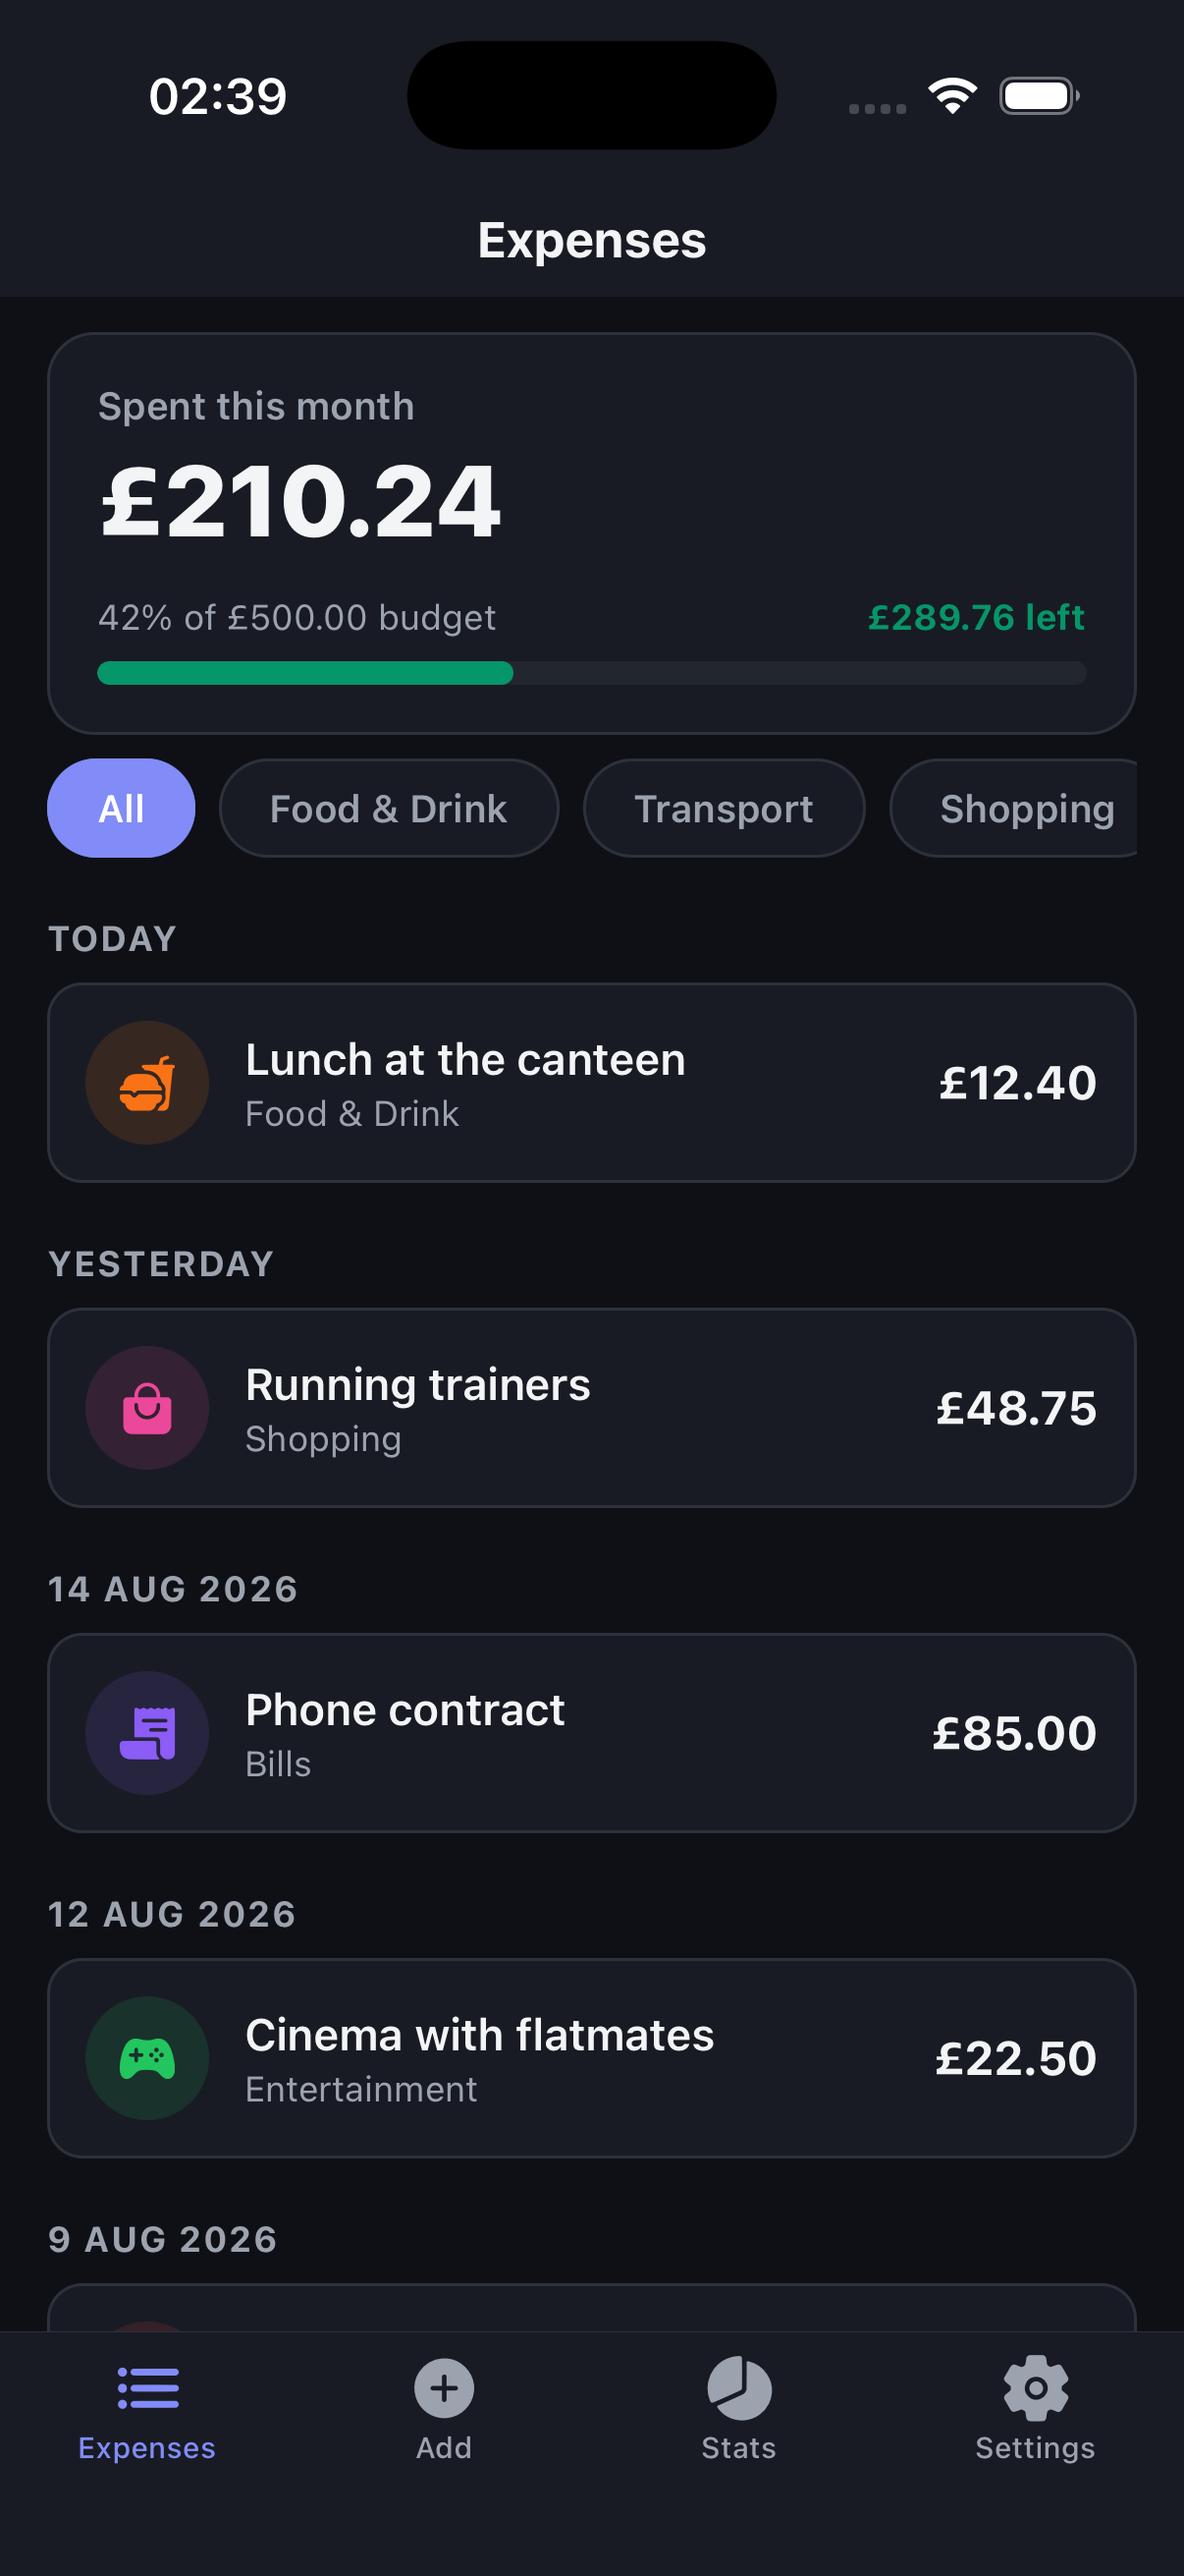
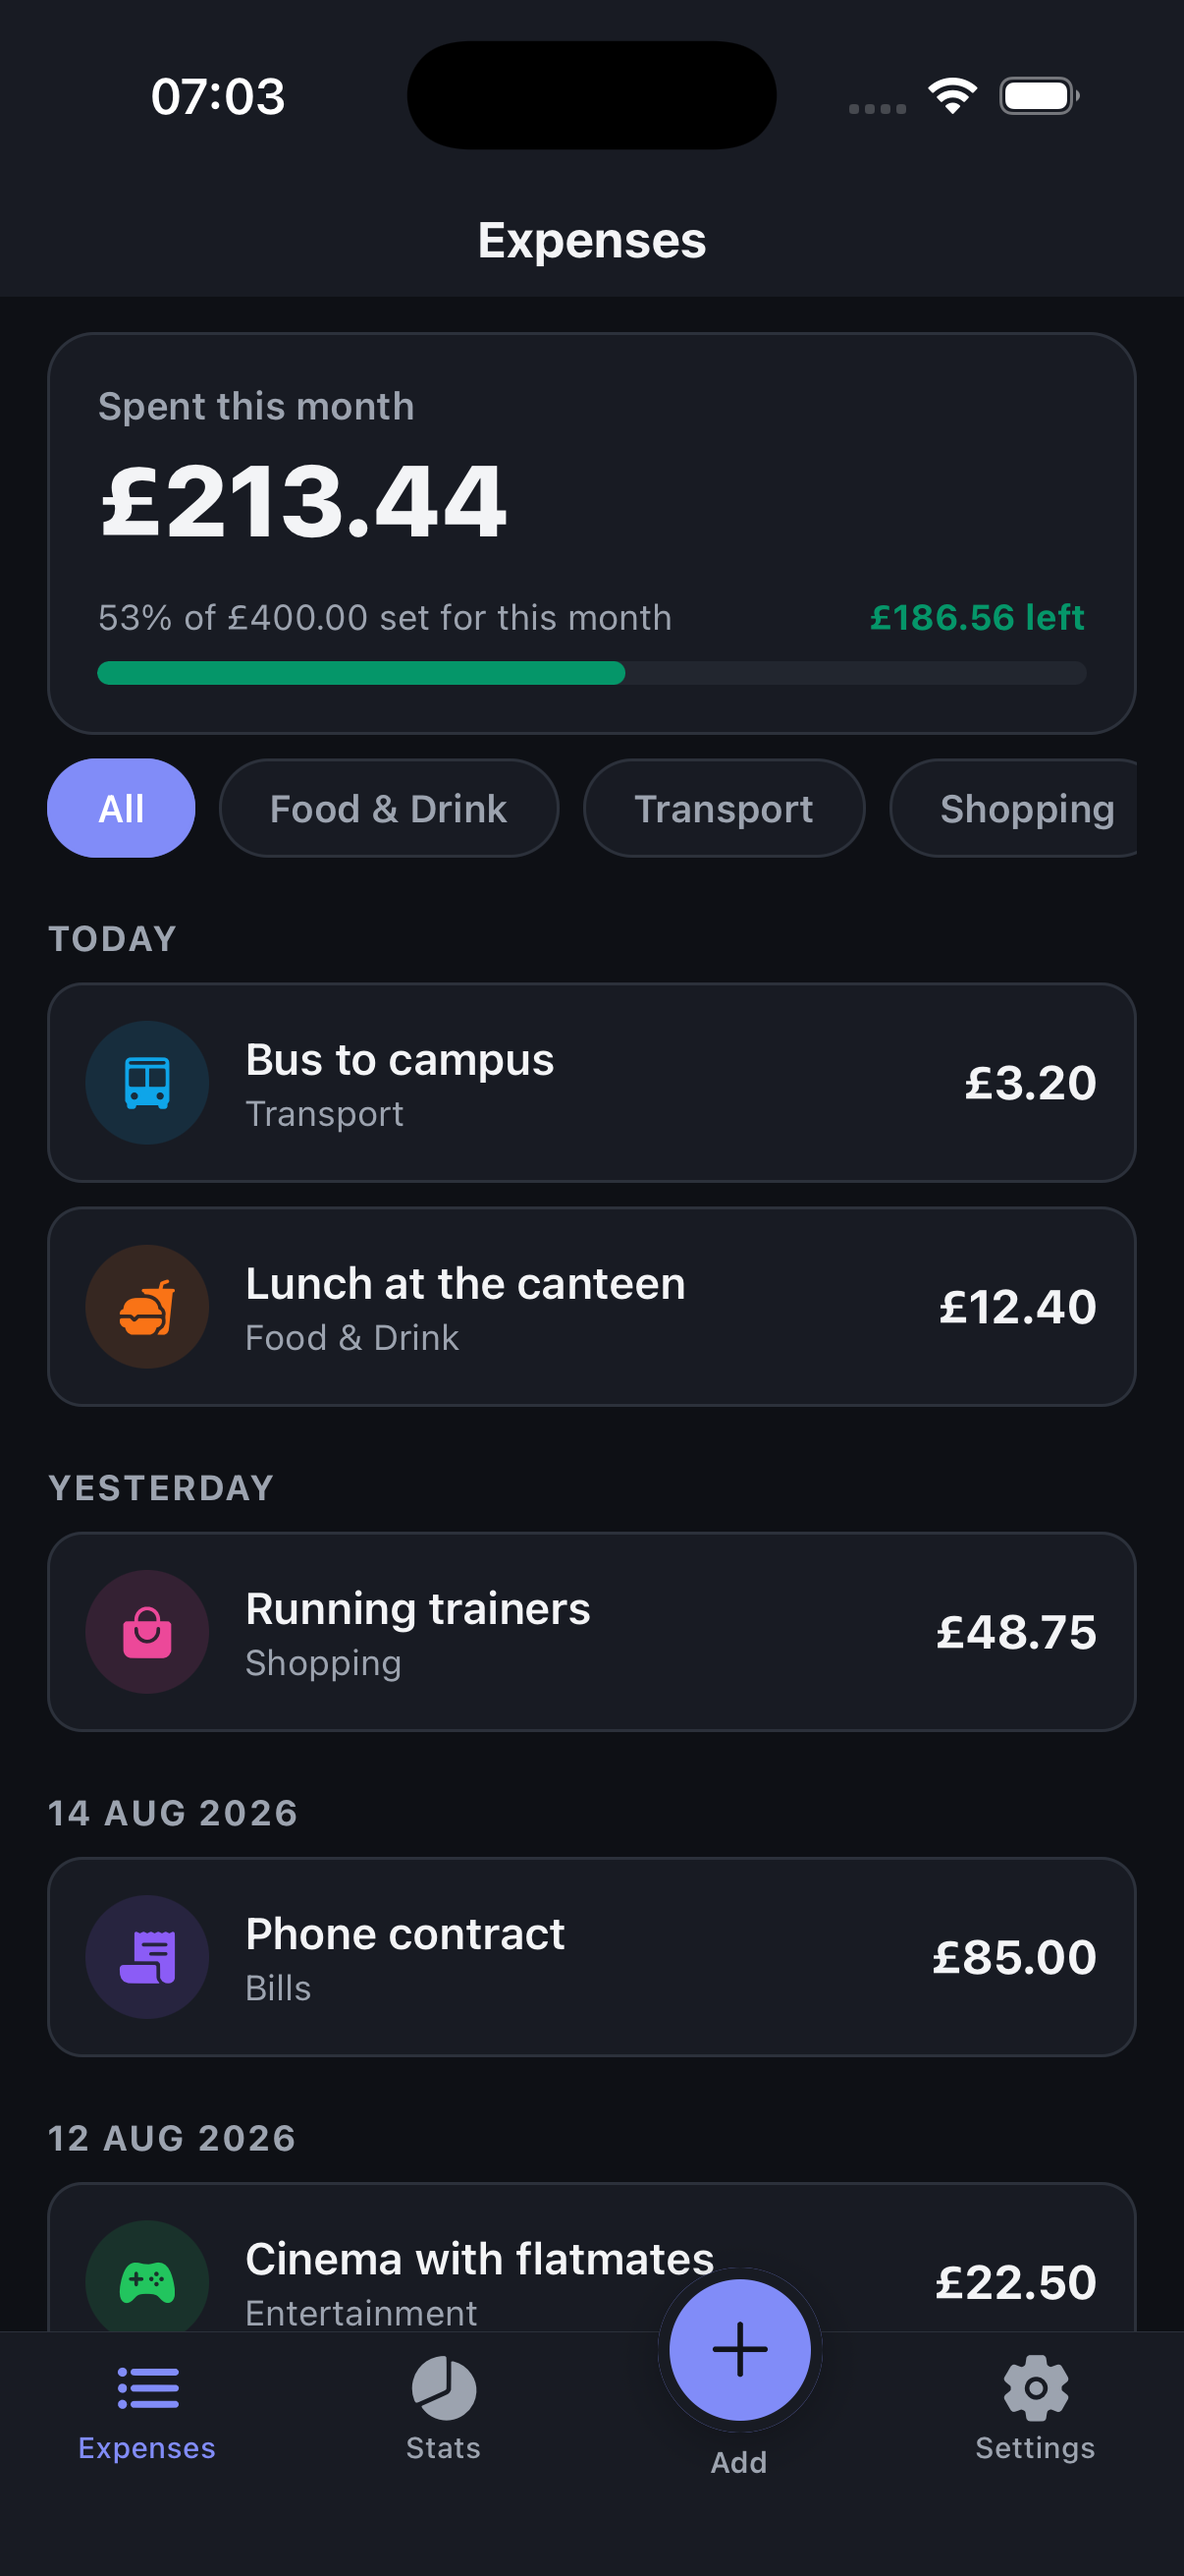
docs: updated the readme, screenshots and test report for the new features

diff --git a/README.md b/README.md
@@ -35,17 +35,19 @@ npm test
 
 | Feature | What it does |
 |---|---|
-| **Multi-screen navigation** | Four bottom tabs (Expenses, Add, Stats, Settings) built with Expo Router. A stack sits above the tabs, and the edit screen opens on top of them as a modal through the dynamic route `app/expense/[id].js`. |
-| **State management with the Context API** | Two React contexts hold all state. `ExpensesContext` holds the list and its create, update and delete actions, and uses `useReducer` with a pure reducer. `SettingsContext` holds the currency, the theme and the budget. |
+| **Multi-screen navigation** | Three bottom tabs (Expenses, Stats, Settings) built with Expo Router, plus a raised centre button. A stack sits above the tabs: the add form opens on it as a modal (`app/expense/new.js`) and the edit screen opens through the dynamic route `app/expense/[id].js`. |
+| **State management with the Context API** | Two React contexts hold all state. `ExpensesContext` holds the list and its create, update and delete actions, and uses `useReducer` with a pure reducer. `SettingsContext` holds the currency, the theme and the budgets. |
 | **Persistence with AsyncStorage** | The app reads the saved data once when it starts, and writes it back after every change. Your expenses and settings survive a force-quit and a restart of the phone. |
 | **Works offline** | There is no network call anywhere in the app. Spendly works the same in aeroplane mode. |
-| Add an expense | Enter an amount, pick one of seven categories, add an optional note, and pick a date. The form rejects an empty amount, a negative amount and an impossible date such as `2026-02-31`. |
+| Add an expense | The raised button in the tab bar opens the form as a modal. Enter an amount, pick one of seven categories, add an optional note, and pick a date. The form rejects an empty amount, a negative amount and an impossible date such as `2026-02-31`. |
 | Edit and delete | Tap any row to open it. Change it and save, or delete it after a confirmation alert. |
 | Expense list by day | The list groups expenses under "Today", "Yesterday" and full dates, newest first. |
 | Category filter | A chip bar filters the list to one category. An empty category shows its own message. |
 | Monthly total and budget bar | The header shows what you spent this month. The bar below it turns green, amber at 80% and red at 100% of your budget. |
-| Statistics | A month switcher, the total and the count for that month, a bar chart of the share of each category, and the largest single expense. |
-| Settings | Theme (System, Light or Dark), currency (GBP, USD or EUR), the monthly budget, and a destructive "Clear all expenses" action. |
+| Budget for a single month | Every month can hold its own budget. A month with no figure of its own uses the default from Settings, so a holiday month does not force you to change the default and change it back. |
+| Four ways to read a month | The Stats tab switches between Categories, Share, Daily and Trend. Categories and Share show where the money went, Daily shows when it went, and Trend compares the last six months. |
+| Expenses behind a category | Tap a category on the Stats tab to open it and see the expenses that make up the figure. Tap one of them to edit it. |
+| Settings | Theme (System, Light or Dark), currency (GBP, USD, EUR or MVR), the default monthly budget, and a destructive "Clear all expenses" action. |
 | Light and dark themes | Every colour comes from one theme file. The whole app, the headers and the tab bar change together. |
 | Accessibility | Buttons, chips, inputs and the budget bar carry accessibility roles, labels and states for screen readers. |
 
@@ -68,26 +70,38 @@ npm test
   </tr>
   <tr>
     <td align="center">
-      <img src="assets/screenshots/add.png" width="250" alt="The add expense form"><br>
+      <img src="assets/screenshots/add.png" width="250" alt="The add expense form as a modal"><br>
       <b>Add</b><br>
-      Amount, category grid, note and date, with "Today" and "Yesterday" shortcuts.
+      The raised button opens the form as a modal over the tabs.
     </td>
     <td align="center">
       <img src="assets/screenshots/edit.png" width="250" alt="The edit expense modal"><br>
       <b>Edit</b><br>
-      The same form opened as a modal from the list, with a delete action.
+      The same form opened from the list, with a delete action.
     </td>
   </tr>
   <tr>
     <td align="center">
-      <img src="assets/screenshots/stats.png" width="250" alt="The statistics screen"><br>
-      <b>Stats</b><br>
-      Month switcher, totals, the share of each category and the largest expense.
+      <img src="assets/screenshots/stats.png" width="250" alt="The statistics screen, category view"><br>
+      <b>Stats — Categories</b><br>
+      The budget for the month, and bars that open to show the expenses behind them.
+    </td>
+    <td align="center">
+      <img src="assets/screenshots/stats-share.png" width="250" alt="The statistics screen, donut chart"><br>
+      <b>Stats — Share</b><br>
+      A ring chart of the share each category takes of the month.
+    </td>
+  </tr>
+  <tr>
+    <td align="center">
+      <img src="assets/screenshots/stats-trend.png" width="250" alt="The statistics screen, trend line"><br>
+      <b>Stats — Trend</b><br>
+      Spending over the six months that end with the selected month.
     </td>
     <td align="center">
       <img src="assets/screenshots/settings.png" width="250" alt="The settings screen"><br>
       <b>Settings</b><br>
-      Theme, currency, monthly budget and the clear-all action.
+      Theme, currency, the default budget and the clear-all action.
     </td>
   </tr>
   <tr>
@@ -111,6 +125,7 @@ npm test
 | React Context + `useReducer` | State management for the expense list and the user settings. |
 | AsyncStorage 2.2.0 | Local storage on the phone. |
 | @expo/vector-icons (Ionicons) | All icons in the tab bar, the category grid and the list. |
+| react-native-svg 15.15.4 | The ring chart and the trend line. The daily bar chart uses plain Views and needs no library. |
 | Jest + jest-expo | The unit tests for the reducer and the helpers. |
 
 ---
@@ -119,20 +134,23 @@ npm test
 
 ```
 app/                          Routes (Expo Router)
-  _layout.js                  Root stack: providers, themed header, modal route
-  (tabs)/_layout.js           Bottom tab navigator
+  _layout.js                  Root stack: providers, themed header, modal routes
+  (tabs)/_layout.js           Bottom tab navigator with the raised Add button
   (tabs)/index.js             Expenses: month total, budget bar, filter, list
-  (tabs)/add.js               Add tab
-  (tabs)/stats.js             Stats: month switcher, category chart
+  (tabs)/add.js               Placeholder for the Add slot of the tab bar
+  (tabs)/stats.js             Stats: month switcher, budget, four chart views
   (tabs)/settings.js          Settings: theme, currency, budget, clear all
+  expense/new.js              Add screen (opens as a modal)
   expense/[id].js             Edit screen (dynamic route, opens as a modal)
 src/
   components/                 ScreenContainer, EmptyState, ErrorBanner,
-                              ExpenseItem, CategoryChips, BudgetBar, ExpenseForm
-  constants/categories.js     The seven categories and the three currencies
+                              ExpenseItem, CategoryChips, BudgetBar, ExpenseForm,
+                              AddTabButton, MonthBudgetCard, CategoryBreakdown,
+                              CategoryDonut, DailyBars, TrendLine
+  constants/categories.js     The seven categories and the four currencies
   context/expensesReducer.js  Pure reducer for the list
   context/ExpensesContext.js  Provider, CRUD actions, storage
-  context/SettingsContext.js  Provider for currency, theme and budget
+  context/SettingsContext.js  Provider for currency, theme and budgets
   theme/index.js              Light and dark palettes, spacing and radius scales
   utils/format.js             Money and date formatting, input validation
   utils/storage.js            AsyncStorage wrappers that never throw
@@ -154,9 +172,14 @@ TESTING.md                    The test report
 - **No export.** There is no CSV or PDF export of the expenses.
 - **No recurring expenses.** You must enter a monthly bill again each month.
 - **The categories are fixed.** You cannot add, rename or remove a category.
-- **One budget for all months.** The budget is a single number, not a figure per
-  month or per category.
+- **No budget per category.** A month holds one figure. You cannot cap food or
+  transport on their own.
 - **No search.** The category filter is the only way to reduce the list.
+- **The Add button is not exactly centred.** The tab bar has four slots, so the
+  raised button sits between Stats and Settings rather than at the middle of the
+  screen. A custom tab bar would fix this.
+- **The exchange rate is not converted.** Changing the currency changes the
+  symbol only. It does not convert the amounts you already recorded.
 
 ---
 
@@ -186,6 +209,13 @@ minus sign before the "more than zero" check, so `-4` became `4`. Manual testing
 showed that a date error stayed on screen after I corrected the date. Both were
 one-line fixes, and neither would have shown up if I had only clicked through the
 happy path.
+
+File-based routing caught me a second time when I moved the add form out of the
+tabs and into a modal. I left a placeholder route at `app/(tabs)/add.js` and put
+the modal at `app/add.js`. Both resolve to `/add`, because a group in brackets
+does not appear in the path, so the button opened a blank screen instead of the
+form. Moving the modal to `/expense/new` fixed it and reads better next to
+`/expense/[id]`.
 
 If I did this again, I would build one full screen end to end before I wrote any
 other screen. I wrote most of the UI before I ran the app once, and a first run

diff --git a/TESTING.md b/TESTING.md
@@ -6,12 +6,12 @@
 npm test
 ```
 
-Jest runs with the `jest-expo` preset. All 25 tests pass.
+Jest runs with the `jest-expo` preset. All 27 tests pass.
 
 | Suite | File | What it covers |
 |---|---|---|
 | Reducer | `__tests__/expensesReducer.test.js` | Hydrate sorts newest first, add prepends, update edits only the matching id, delete removes one item, clear empties the list, an unknown action returns the same state, and the reducer never mutates its input. |
-| Helpers | `__tests__/format.test.js` | Currency formatting for GBP, USD and EUR. `parseAmount` accepts decimals and rejects empty text, letters, zero, negative values and values above one million. `parseDate` accepts a real date, rejects `2026-02-31`, rejects the wrong format and handles leap years. Date key helpers and the month step across a year boundary. |
+| Helpers | `__tests__/format.test.js` | Currency formatting for GBP, USD, EUR and MVR, and the fallback for an unknown code. `parseAmount` accepts decimals and rejects empty text, letters, zero, negative values and values above one million. `parseDate` accepts a real date, rejects `2026-02-31`, rejects the wrong format and handles leap years. Date key helpers and the month step across a year boundary. |
 
 The reducer holds all list logic and has no React or storage imports. This makes
 it possible to test the state changes directly.
@@ -26,7 +26,7 @@ target the rejection cases more than the happy path.
 
 | # | Test | Steps | Expected result | Result |
 |---|---|---|---|---|
-| 1 | Add an expense | Add tab, enter £12.40, category Food & Drink, note, Save | The expense appears at the top of the Expenses list under "Today" | Pass |
+| 1 | Add an expense | Tap the raised button, enter £24.00, category Transport, note, Save | The modal closes and the expense appears at the top of the list under "Today" | Pass |
 | 2 | Data survives a restart | Force-quit Expo Go, open the project again | The expense is still in the list and the month total is correct | Pass |
 | 3 | Edit an expense | Tap a row, change £3.20 to £4.10, Save changes | The list and the month total show the new amount | Pass |
 | 4 | Delete needs confirmation | Open an expense, tap Delete expense, tap Cancel | The alert closes and the expense stays in the list | Pass |
@@ -41,6 +41,15 @@ target the rejection cases more than the happy path.
 | 13 | Empty amount | Add tab, tap Save with no amount | The banner "Enter an amount" appears and the app does not crash | Pass |
 | 14 | Impossible date | Enter the date `2026-02-31` and Save | The message "That date does not exist" appears and nothing is saved | Pass |
 | 15 | Clear all expenses | Settings, Clear all expenses, tap Delete | The list is empty and the "No expenses yet" state returns | Pass |
+| 16 | Add opens as a modal | Tap the raised button in the tab bar | The Add form opens as a sheet over the tabs, not as a tab | Pass |
+| 17 | Maldivian Rufiyaa | Settings, Currency, tap MVR | Every amount shows "Rf" with a space, for example "Rf 110.50" | Pass |
+| 18 | Budget for one month | Stats, August 2026, enter 100 in the budget field | The label reads "set for this month", the bar turns red at 111%, and "Use default" appears | Pass |
+| 19 | Other months keep the default | Step to September 2026 | The budget returns to the £500 default from Settings | Pass |
+| 20 | The month budget reaches Home | Open the Expenses tab | The header bar shows the figure set for the current month, not the default | Pass |
+| 21 | Category opens to its expenses | Stats, Categories, tap a category bar | The section opens and lists the expenses that make up the figure | Pass |
+| 22 | Share view | Stats, tap Share | A ring chart shows the split, with the month total in the middle and a legend below | Pass |
+| 23 | Daily view | Stats, tap Daily | One bar per day of the month, with the peak figure and the busiest day | Pass |
+| 24 | Trend view | Stats, tap Trend | A line over six months, with the selected month as the last point | Pass |
 
 ## Defects found and fixed
 
@@ -48,8 +57,18 @@ target the rejection cases more than the happy path.
 |---|---|---|
 | `parseAmount` accepted `-4` as `4` | The clean-up step removed the minus sign before the "more than zero" check ran | The check now reads the original text, so a minus sign is rejected |
 | The date error stayed on screen after the user corrected the date | The error only cleared on the next submit | The error clears as soon as the date changes |
+| The raised button opened a blank screen | `app/(tabs)/add.js` and `app/add.js` both resolve to `/add`, because a group in brackets does not appear in the path | The modal moved to `app/expense/new.js`, next to the edit route |
+| The tab bar hit "Maximum update depth exceeded" | The placeholder route redirected to the modal on every render | The placeholder renders nothing; only the button navigates |
 
-The first defect came from the unit tests. The second came from the manual tests.
+The first defect came from the unit tests. The other three came from the manual
+tests.
+
+## A note on Expo Go
+
+Twice during development the app failed with `Cannot find native module 'ExpoAsset'`
+after a JavaScript crash or a restart of the bundler. This is a stale Expo Go
+process, not a fault in the app. A full quit of Expo Go and a fresh open of the
+project clears it every time.
 
 ## Error handling
 
